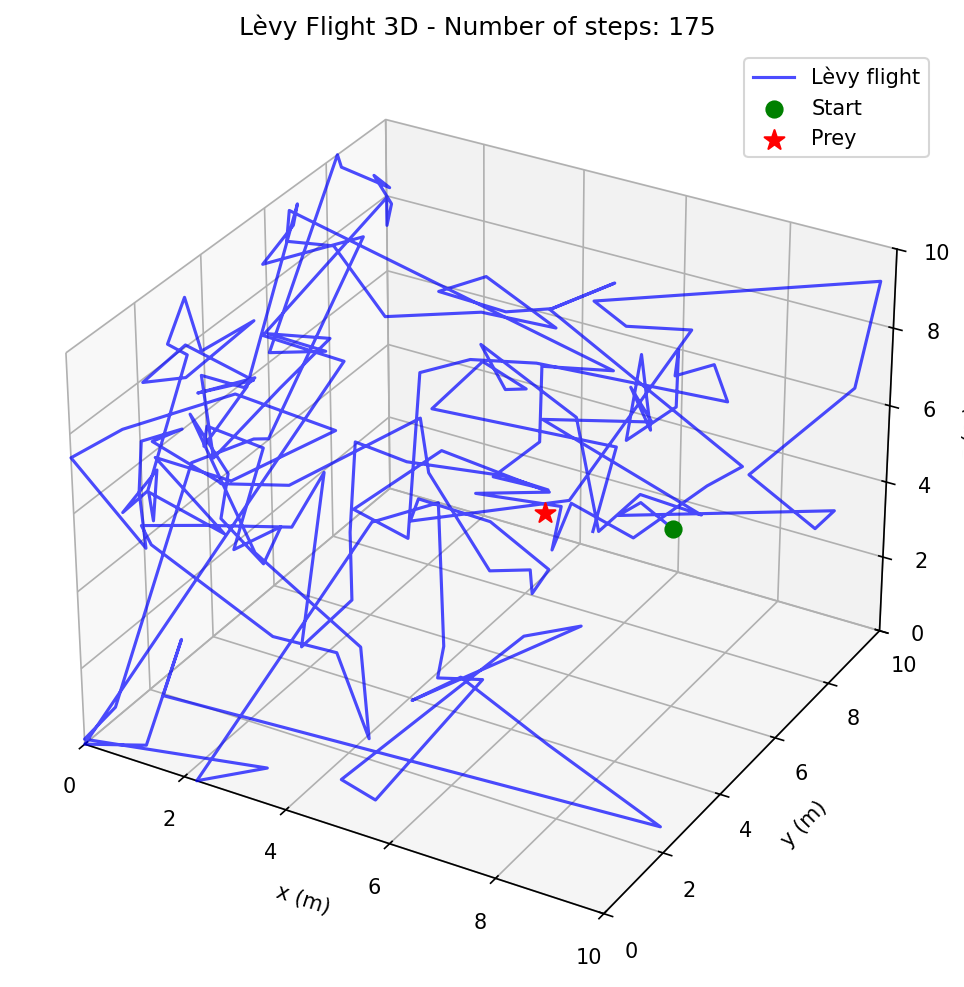
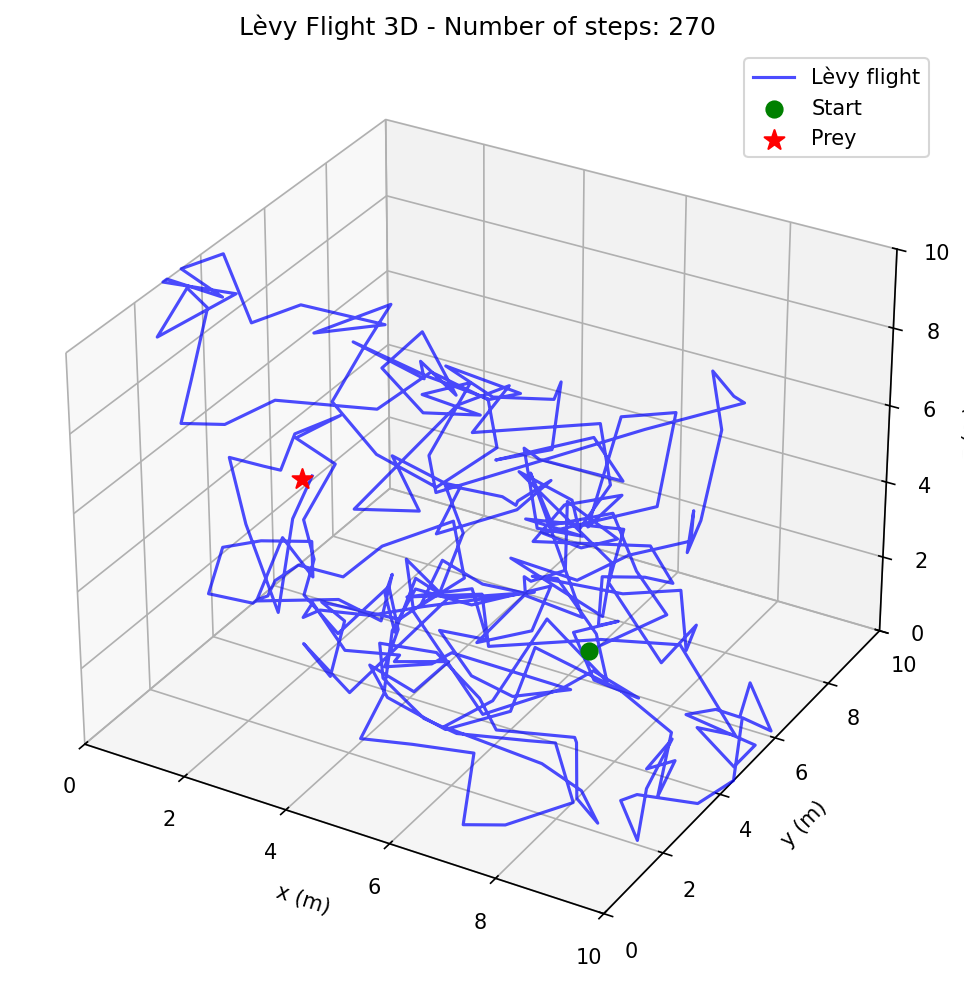
3dddd

diff --git a/Levy/Levy3D.py b/Levy/Levy3D.py
@@ -3,10 +3,10 @@ from mpl_toolkits.mplot3d import Axes3D
 import matplotlib.pyplot as plt
 
 L=10
-N_pasos=100000
-alpha_0=1.9
-alpha_f=2.5
-delta_alpha=0.01
+N_pasos=10000
+alpha_0=2.5
+alpha_f=4.0
+delta_alpha=0.05
 l_min=1.0 #necesario para normalizar la power law
 pasos=0
 

diff --git a/Levy/readdata.py b/Levy/readdata.py
@@ -3,10 +3,10 @@ import numpy as np
 import matplotlib.pyplot as plt
 
 L=10
-N_pasos=100000
-alpha_0=1.9
-alpha_f=2.5
-delta_alpha=0.01
+N_pasos=10000
+alpha_0=2.5
+alpha_f=4.0
+delta_alpha=0.05
 D=3
 
 # Read the data file
